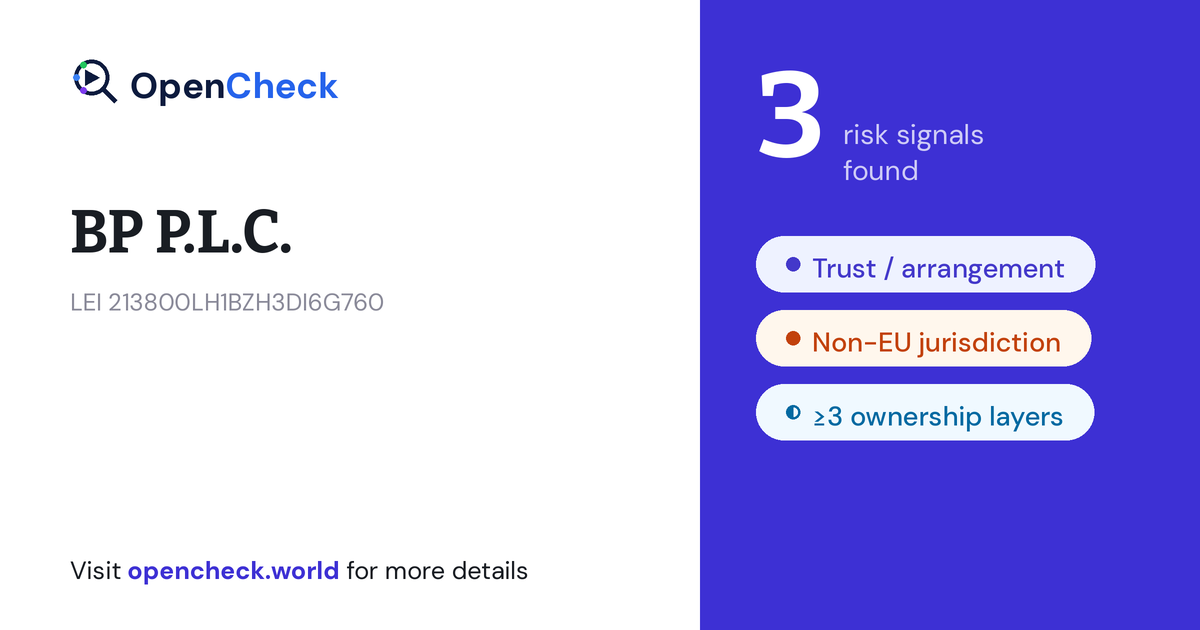
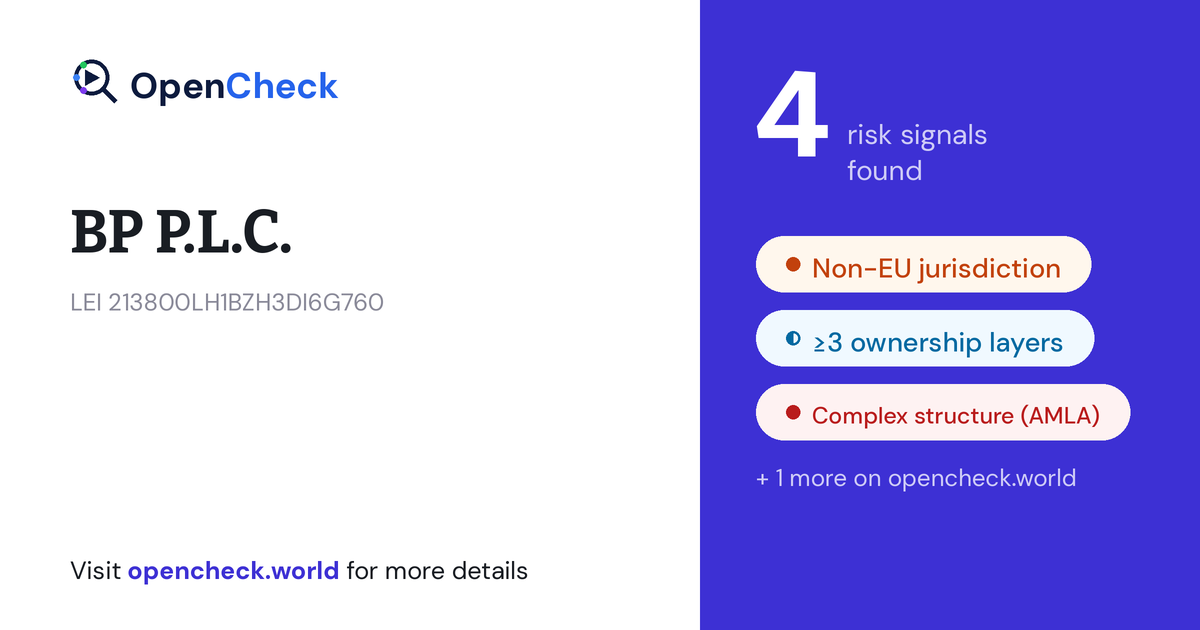
Regenerate the homepage share-card example — BP does not have a trust
The static /share-card-example.png on the homepage advertised BP P.L.C. with
"Trust / arrangement", and the img alt text spelled the same three signals
out for screen readers. BP produces no TRUST_OR_ARRANGEMENT signal in
production — its four are non-EU jurisdiction, >=3 ownership layers, complex
corporate structure (AMLA) and offshore leaks.

Same drift as the stale EXAMPLE_LEIS picker cards fixed in Phase 98, except
baked into a PNG, so no amount of reading the code would surface it. Spotted
by looking at the deployed homepage after the merge.

Regenerated with og_image.render_share_card() — the same generator that
produces the real cards, so the styling is identical by construction rather
than by hand-matching — using BP's actual production signals. The card now
reads "4 risk signals found" with the first three named and "+ 1 more",
which also happens to demonstrate the overflow line the old example didn't.
Alt text updated to match.

Worth noting for future signal work: hardcoded claims about engine output
live in at least four places — EXAMPLE_LEIS, this PNG, its alt text, and the
og_image/RiskChip label maps. A signal that stops firing goes stale in all
of them silently.

Claude-Session: https://claude.ai/code/session_01YJd1wgL3TbodT8vY4YhJ3a

diff --git a/frontend/src/App.tsx b/frontend/src/App.tsx
@@ -2981,7 +2981,7 @@ function ShareCardShowcase() {
           src="/share-card-example.png"
           width={1200}
           height={630}
-          alt="Example shareable summary card for BP P.L.C. showing 3 risk signals: trust or arrangement, non-EU jurisdiction, and three or more ownership layers, with a prompt to visit opencheck.world for details"
+          alt="Example shareable summary card for BP P.L.C. showing 4 risk signals, the first three named: non-EU jurisdiction, three or more ownership layers, and complex corporate structure (AMLA), with a prompt to visit opencheck.world for details"
           className="w-full max-w-[560px] h-auto rounded-oo border border-oo-rule shadow-oo-card"
           loading="lazy"
         />
